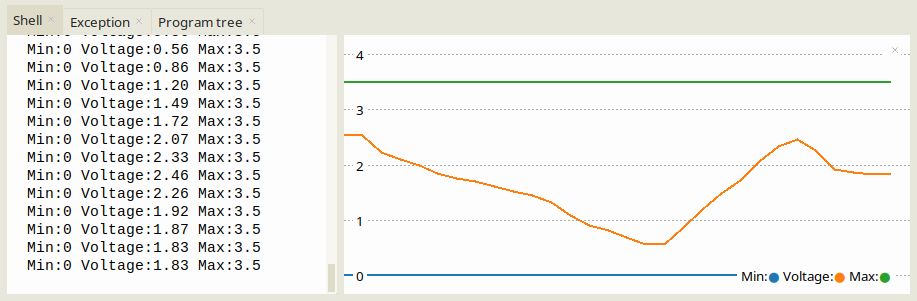
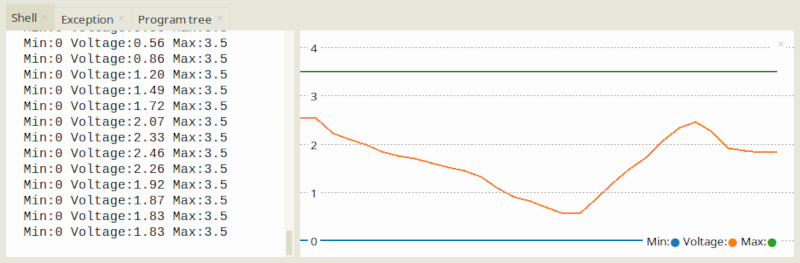
Update README.md, asset, add code

diff --git a/code/06_imu_MPU6050.py b/code/06_imu_MPU6050.py
@@ -1,0 +1,28 @@
+# Elektor Pico Primer Kit in CircuitPython (Inertial Measure Unit example)
+# GitHub project : https://github.com/Mick3DIY/ElektorPicoPrimerKit
+# Raspberry Pi Pico : https://www.raspberrypi.com/products/raspberry-pi-pico/
+# Documentation, tutorials : https://projects.raspberrypi.org
+# CircuitPython : https://learn.adafruit.com/welcome-to-circuitpython
+# Thonny IDE : https://thonny.org
+
+# Common file for the TFT LCD screen
+import tft_display
+
+# https://docs.circuitpython.org/en/latest/shared-bindings/board/
+import board
+
+# https://docs.circuitpython.org/en/latest/shared-bindings/busio/
+import busio
+
+# https://docs.circuitpython.org/projects/register/en/latest/
+# Don't forget to install this folder in the Pico "/lib" folder (adafruit_mpu6050 dependency)
+# https://docs.circuitpython.org/projects/mpu6050/en/latest/
+# Don't forget to install this library (.mpy file) in the Pico "/lib" folder
+from adafruit_mpu6050 import MPU6050
+
+# https://docs.circuitpython.org/en/latest/shared-bindings/time/
+import time
+
+# Inertial Measure Unit on GP9, GP8 (CN3)
+i2c = busio.I2C(board.GP9, board.GP8)
+mpu = MPU6050(i2c, address=0x68)

diff --git a/README.md b/README.md
@@ -16,7 +16,7 @@ This kit consist of a main board with a TFT LCD screen (1.44" ST7735 driver) for
 * 1 slide potentiometer
 * 1 magnetic relay (SRD-03VDC-SL-C 10A)
 * 1 strip of 8 LEDs (WS2812)
-* 1 Inertial Measure Unit (IMU) MPU6050 with 6 axes (accelerometer, gyroscope)
+* 1 Inertial Measure Unit (MPU6050) with 6 axes (accelerometer, gyroscope) and I2C communication (default address 0x68)
 * 1 ultrasonic distance sensor (HC-SR04)
 * 1 servomotor (SG90)
 * 1 serial to WIFI (ESP module)
@@ -36,7 +36,7 @@ List of the connectors, pins, Pico GPIOs on the main board :
 |:----------:|:-----:|:-----:|:-----:|:-----:|:-------:|
 | `CN1`      | GP1   | GP0   | VCC   | GND   | |
 | `CN2`      | GP7   | GP6   | VCC   | GND   | |
-| `CN3`      | GP9   | GP8   | VCC   | GND   | |
+| `CN3`      | GP9   | GP8   | VCC   | GND   | Inertial Measure Unit (MPU6050) |
 | `CN4`      | GP28  | GP27  | VCC   | GND   | |
 | `CN5`      | GP26  | GP21  | VCC   | GND   | Potentiometer, magnetic relay |
 | `CN6`      | GP16  | GP17  | VCC   | GND   | Strip LEDs (WS2812) |

diff --git a/code/README.md b/code/README.md
@@ -29,6 +29,10 @@ If you don't have any error and see the default message, explore the other codes
 
 * `05_leds_ws2812.py` : using the strip of 8 LEDs (WS2812)
 
-The slide potentiometer example with Thonny IDE and its plotter window :
+* `06_imu_MPU6050.py` : using the Inertial Measure Unit (MPU6050)
+
+### Thonny IDE plotter window examples :
+
+The slide potentiometer example (`03_potentiometer.py`) :
 
 ![Potentiometer example](../assets/03_Potentiometer.png)
